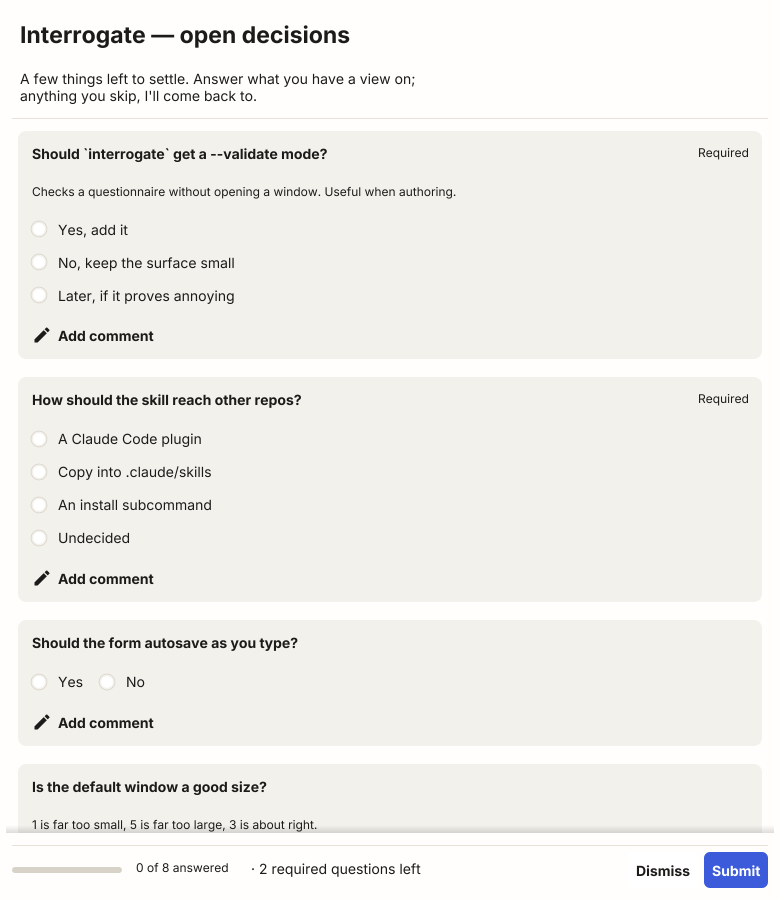
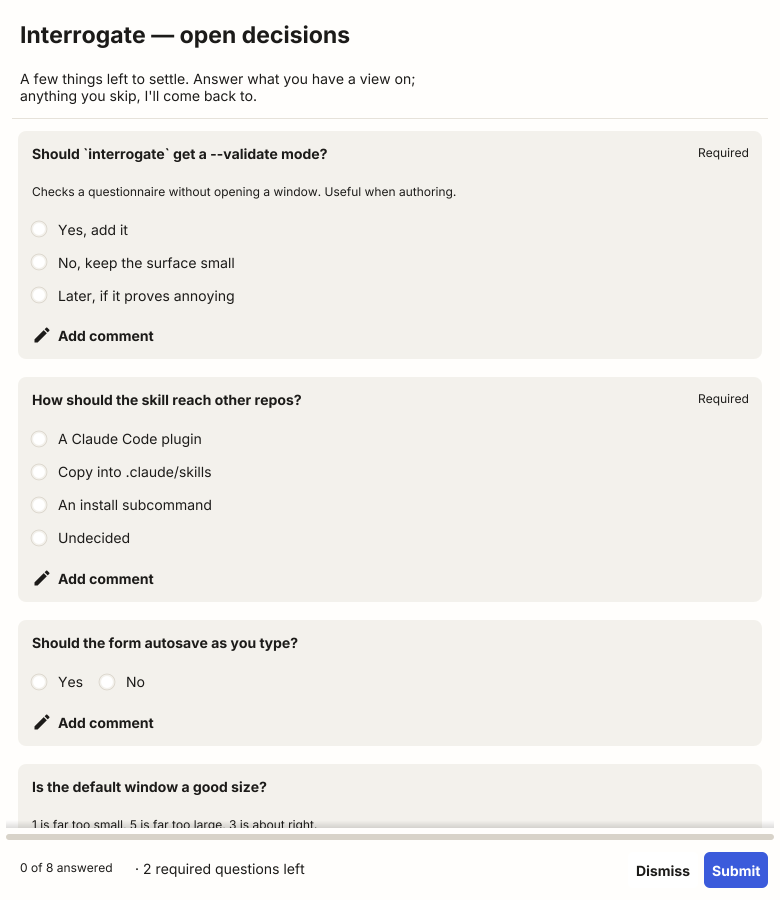
Widen the progress bar and stop text fields swallowing page scroll

Changed region(s): [[0.0, 0.9022, 1.0, 0.9956]]

diff --git a/internal/ui/polish_test.go b/internal/ui/polish_test.go
@@ -56,7 +56,7 @@ func TestCommentStartsCollapsed(t *testing.T) {
 	if c.Expanded() {
 		t.Error("a comment field should rest collapsed")
 	}
-	if c.Entry().Visible() {
+	if c.FieldVisible() {
 		t.Error("the entry should be hidden while collapsed")
 	}
 	if got := c.toggle.Text; got != "Add comment" {
@@ -69,7 +69,7 @@ func TestCommentOpensOnDemand(t *testing.T) {
 	c := f.cards["name"].comment
 
 	c.Toggle()
-	if !c.Expanded() || !c.Entry().Visible() {
+	if !c.Expanded() || !c.FieldVisible() {
 		t.Error("pressing the toggle should open the field")
 	}
 	if got := c.toggle.Text; got != "Hide comment" {
@@ -77,7 +77,7 @@ func TestCommentOpensOnDemand(t *testing.T) {
 	}
 
 	c.Toggle()
-	if c.Expanded() || c.Entry().Visible() {
+	if c.Expanded() || c.FieldVisible() {
 		t.Error("pressing it again should close the field")
 	}
 }
@@ -303,4 +303,82 @@ func TestProgressBarClampsOutOfRange(t *testing.T) {
 	if got := p.Value(); got != 1 {
 		t.Errorf("Value = %v after setting 5, want 1", got)
 	}
+}
+
+// --- Scrolling over a text field ----------------------------------------
+
+func TestScrollOverATextFieldMovesThePage(t *testing.T) {
+	// Fyne's Entry has an internal scroller that consumes scroll events even
+	// with nothing to scroll, and events do not bubble. Without the shield, a
+	// trackpad scroll stops dead when it crosses a comment box.
+	f, _ := build(t, uiDoc)
+	f.scroll.Resize(fyne.NewSize(600, 400))
+	f.list.Resize(fyne.NewSize(600, 2000))
+	f.scroll.Content.Resize(fyne.NewSize(600, 2000))
+
+	shield := findShield(t, f, "why")
+	before := f.scroll.Offset.Y
+	shield.Scrolled(&fyne.ScrollEvent{Scrolled: fyne.NewDelta(0, -40)})
+
+	if f.scroll.Offset.Y == before {
+		t.Error("scrolling over a text field did not move the page")
+	}
+}
+
+func TestScrollOverATextFieldStopsAtTheEnds(t *testing.T) {
+	f, _ := build(t, uiDoc)
+	f.scroll.Resize(fyne.NewSize(600, 400))
+	f.scroll.Content.Resize(fyne.NewSize(600, 2000))
+	shield := findShield(t, f, "why")
+
+	// Scrolling up at the top must not run past the start of the page.
+	shield.Scrolled(&fyne.ScrollEvent{Scrolled: fyne.NewDelta(0, 500)})
+	if got := f.scroll.Offset.Y; got != 0 {
+		t.Errorf("offset = %v after scrolling up at the top, want 0", got)
+	}
+
+	// Nor past the end.
+	shield.Scrolled(&fyne.ScrollEvent{Scrolled: fyne.NewDelta(0, -99999)})
+	if got := f.scroll.Offset.Y; got > 1600 {
+		t.Errorf("offset = %v, want it capped at the end of the page", got)
+	}
+}
+
+func TestScrollOverATextFieldIgnoresSideways(t *testing.T) {
+	f, _ := build(t, uiDoc)
+	f.scroll.Resize(fyne.NewSize(600, 400))
+	f.scroll.Content.Resize(fyne.NewSize(600, 2000))
+	findShield(t, f, "why").Scrolled(&fyne.ScrollEvent{Scrolled: fyne.NewDelta(120, 0)})
+	if got := f.scroll.Offset.X; got != 0 {
+		t.Errorf("offset.X = %v, want the page never to scroll sideways", got)
+	}
+}
+
+func TestEveryMultiLineFieldIsShielded(t *testing.T) {
+	f, doc := build(t, uiDoc)
+	for _, q := range doc.Questions {
+		c := f.cards[q.ID]
+		// Every comment field is multi-line, whatever the question's type.
+		if _, ok := search[*scrollShield](c.comment.shielded(), first[*scrollShield]()); !ok {
+			t.Errorf("the comment field for %q is not shielded", q.ID)
+		}
+		if q.Type == questionnaire.TypeTextarea {
+			if _, ok := search[*scrollShield](c.root, first[*scrollShield]()); !ok {
+				t.Errorf("the textarea for %q is not shielded", q.ID)
+			}
+		}
+	}
+}
+
+func findShield(t *testing.T, f *form, id string) *scrollShield {
+	t.Helper()
+	c, ok := f.cards[id]
+	if !ok {
+		t.Fatalf("no card for %q", id)
+	}
+	found, ok := search[*scrollShield](c.root, first[*scrollShield]())
+	if !ok {
+		t.Fatalf("no scroll shield in the card for %q", id)
+	}
+	return found
 }

diff --git a/internal/ui/form.go b/internal/ui/form.go
@@ -143,15 +143,15 @@ func (f *form) footer() fyne.CanvasObject {
 	submit.Importance = widget.HighImportance
 	dismiss := widget.NewButton("Dismiss", f.requestClose)
 
-	// The bar needs a width to be worth reading, so it takes the space the
-	// actions leave rather than shrinking to its content like an HBox item.
-	bar := container.NewCenter(container.NewGridWrap(f.progress.MinSize(), f.progress))
-	status := container.NewHBox(bar, f.counted, f.summary)
+	status := container.NewHBox(f.counted, f.summary)
 	actions := container.NewHBox(dismiss, submit)
-	return container.NewPadded(container.NewVBox(
-		widget.NewSeparator(),
-		container.NewBorder(nil, nil, status, actions),
-	))
+
+	// The bar spans the window along the top edge of the footer, where it also
+	// does the job the separator was doing.
+	return container.NewVBox(
+		f.progress,
+		container.NewPadded(container.NewBorder(nil, nil, status, actions)),
+	)
 }
 
 // buildCard lays out one question. Every question gets a comment box, whatever
@@ -182,7 +182,7 @@ func (f *form) buildCard(q *questionnaire.Question) *card {
 
 	parts = append(parts, f.control(q, c))
 
-	c.comment = newCommentField(q.Comment, func(s string) { q.Comment = s })
+	c.comment = newCommentField(q.Comment, func(s string) { q.Comment = s }, f.scrollable)
 	parts = append(parts, c.comment.root)
 
 	c.warning = widget.NewLabel("")
@@ -267,7 +267,41 @@ func (f *form) textareaControl(q *questionnaire.Question) fyne.CanvasObject {
 		entry.SetText(current)
 	}
 	entry.OnChanged = func(s string) { f.set(q, s) }
-	return entry
+	return f.scrollable(entry)
+}
+
+// scrollable shields a multi-line field so that scrolling the page over it
+// keeps working. See scrollThrough for why this is needed.
+func (f *form) scrollable(field fyne.CanvasObject) fyne.CanvasObject {
+	return newScrollThrough(field, f.scrollPage)
+}
+
+// scrollPage moves the questionnaire under the responder, matching what the
+// page scroller would have done with the event itself.
+func (f *form) scrollPage(e *fyne.ScrollEvent) {
+	if f.scroll == nil {
+		return
+	}
+	offset := f.scroll.Offset
+	offset.Y -= e.Scrolled.DY
+	offset.X -= e.Scrolled.DX
+
+	limit := f.scroll.Content.Size().Height - f.scroll.Size().Height
+	if limit < 0 {
+		limit = 0
+	}
+	if offset.Y < 0 {
+		offset.Y = 0
+	}
+	if offset.Y > limit {
+		offset.Y = limit
+	}
+	if offset.X != 0 {
+		offset.X = 0 // the page never scrolls sideways
+	}
+
+	f.scroll.Offset = offset
+	f.scroll.Refresh()
 }
 
 // numberControl accepts free text but only records a value the question's

diff --git a/internal/ui/widget_scrollthrough.go b/internal/ui/widget_scrollthrough.go
@@ -1,0 +1,72 @@
+package ui
+
+import (
+	"fyne.io/fyne/v2"
+	"fyne.io/fyne/v2/container"
+	"fyne.io/fyne/v2/widget"
+)
+
+// scrollThrough makes a text field stop swallowing the page's scrolling.
+//
+// Fyne gives every wrapping multi-line Entry an internal scroller, and
+// Scroll.Scrolled consumes the event whether or not it had anywhere to scroll.
+// Events do not bubble, and the driver dispatches to the deepest object under
+// the cursor implementing the interface -- so a trackpad scroll that crosses a
+// comment box simply stops until the pointer leaves it.
+//
+// The fix is to be deeper still: a transparent layer over the field that
+// implements Scrollable and forwards to the page. Every other kind of event is
+// matched by its own interface, which this layer does not implement, so taps,
+// hovering, text selection and focus all reach the field as before.
+type scrollThrough struct {
+	widget.BaseWidget
+
+	field  fyne.CanvasObject
+	onto   func(*fyne.ScrollEvent)
+	shield *scrollShield
+}
+
+func newScrollThrough(field fyne.CanvasObject, onto func(*fyne.ScrollEvent)) *scrollThrough {
+	s := &scrollThrough{field: field, onto: onto, shield: newScrollShield(onto)}
+	s.ExtendBaseWidget(s)
+	return s
+}
+
+func (s *scrollThrough) CreateRenderer() fyne.WidgetRenderer {
+	// The shield is stacked last, so it is the deepest match under the cursor.
+	return widget.NewSimpleRenderer(container.NewStack(s.field, s.shield))
+}
+
+// Objects exposes both layers, so the object tree stays walkable without
+// building a renderer first.
+func (s *scrollThrough) Objects() []fyne.CanvasObject {
+	return []fyne.CanvasObject{s.field, s.shield}
+}
+
+// Content is the field being shielded.
+func (s *scrollThrough) Content() fyne.CanvasObject { return s.field }
+
+// scrollShield is the transparent layer itself. It draws nothing and answers
+// only to scrolling.
+type scrollShield struct {
+	widget.BaseWidget
+
+	onto func(*fyne.ScrollEvent)
+}
+
+func newScrollShield(onto func(*fyne.ScrollEvent)) *scrollShield {
+	s := &scrollShield{onto: onto}
+	s.ExtendBaseWidget(s)
+	return s
+}
+
+func (s *scrollShield) CreateRenderer() fyne.WidgetRenderer {
+	return widget.NewSimpleRenderer(container.NewWithoutLayout())
+}
+
+// Scrolled forwards the event to whatever the shield was pointed at.
+func (s *scrollShield) Scrolled(e *fyne.ScrollEvent) {
+	if s.onto != nil {
+		s.onto(e)
+	}
+}

diff --git a/internal/ui/widget_comment.go b/internal/ui/widget_comment.go
@@ -24,13 +24,30 @@ type commentField struct {
 	toggle   *widget.Button
 	root     *fyne.Container
 	expanded bool
+
+	// shield keeps the page scrolling while the pointer is over the field.
+	shield func(fyne.CanvasObject) fyne.CanvasObject
+	// wrapped is what actually goes in the layout: the entry, shielded.
+	wrapped fyne.CanvasObject
+}
+
+// shielded returns the entry wrapped so it does not swallow page scrolling.
+func (c *commentField) shielded() fyne.CanvasObject {
+	if c.wrapped != nil {
+		return c.wrapped
+	}
+	c.wrapped = c.entry
+	if c.shield != nil {
+		c.wrapped = c.shield(c.entry)
+	}
+	return c.wrapped
 }
 
 // previewLimit is how much of a comment the collapsed toggle shows.
 const previewLimit = 44
 
-func newCommentField(current string, onChange func(string)) *commentField {
-	c := &commentField{}
+func newCommentField(current string, onChange func(string), shield func(fyne.CanvasObject) fyne.CanvasObject) *commentField {
+	c := &commentField{shield: shield}
 
 	c.entry = widget.NewMultiLineEntry()
 	c.entry.SetPlaceHolder("Anything worth saying about this answer")
@@ -51,7 +68,7 @@ func newCommentField(current string, onChange func(string)) *commentField {
 	// A question that arrives with a comment opens showing it: the responder
 	// wrote it last time and should not have to hunt for it.
 	c.expanded = strings.TrimSpace(current) != ""
-	c.root = container.NewVBox(c.toggle, c.entry)
+	c.root = container.NewVBox(c.toggle, c.shielded())
 	c.apply()
 
 	return c
@@ -72,11 +89,16 @@ func (c *commentField) Expanded() bool { return c.expanded }
 // Entry exposes the text field, for tests and for focus handling.
 func (c *commentField) Entry() *widget.Entry { return c.entry }
 
+// FieldVisible reports whether the text field is on screen. The entry is
+// wrapped in a scroll shield, and it is the wrapper that gets hidden, so asking
+// the entry itself would always say yes.
+func (c *commentField) FieldVisible() bool { return c.shielded().Visible() }
+
 func (c *commentField) apply() {
 	if c.expanded {
-		c.entry.Show()
+		c.shielded().Show()
 	} else {
-		c.entry.Hide()
+		c.shielded().Hide()
 	}
 	c.relabel()
 	c.root.Refresh()

diff --git a/openspec/changes/polish-questionnaire-form/proposal.md b/openspec/changes/polish-questionnaire-form/proposal.md
@@ -6,7 +6,8 @@ The first questionnaire answered with `interrogate` was also a review of it. The
 
 - **The header scrolls with the page.** Title and intro are read once, at the start; pinning them costs a fifth of the window for the rest of the session. The footer stays pinned, because the actions are needed from anywhere.
 - **Comment boxes collapse.** Each question shows a quiet affordance instead of an open field; the field appears when the responder wants it, and a question that already carries a comment opens with it visible. Every question still accepts a comment — the capability is unchanged, only its resting state.
-- **A progress bar.** The responder can see how far through the questionnaire they are at a glance, without reading a count or judging it by the scrollbar.
+- **A progress bar** across the top edge of the footer. The responder can see how far through the questionnaire they are at a glance, without reading a count or judging it by the scrollbar.
+- **Scrolling no longer stops over a text field.** Fyne gives every wrapping multi-line entry an internal scroller that consumes scroll events whether or not it has anywhere to scroll, and events do not bubble, so a trackpad scroll dies the moment the pointer crosses a comment box.
 - **Each question sits on its own card.** A hairline separator turned out not to be enough to tell one question from the next when scrolling. Every question gets a panel in a single colour that contrasts with a lightened page, separated by a margin — one shade, not a cycle of them, so the page reads as a stack of cards rather than a swatch book.
 - **`interrogate --validate <path>`** checks a questionnaire and exits without opening a window, reporting the same errors it would refuse to open on.
 

diff --git a/openspec/changes/polish-questionnaire-form/tasks.md b/openspec/changes/polish-questionnaire-form/tasks.md
@@ -45,9 +45,15 @@
 - [x] 6.1 Replace the counted readout with a progress bar over the applicable questions, and verify it reads empty on a fresh questionnaire and full when everything applicable is answered
 - [x] 6.2 Verify the bar advances as questions are answered and adjusts when a conditional question appears
 
-## 7. Delivery
+## 7. Scrolling over text fields
 
-- [x] 7.1 Refresh the rendered previews and verify the density improvement by screenshot review with the user
-- [x] 7.2 Update the README's form screenshot and document `--validate`, and verify the README's examples still pass their own tests
-- [x] 7.3 Note in the skill that a questionnaire can be checked with `--validate`, and verify the skill's tests still pass
-- [ ] 7.4 Run the full suite and one real interrogation, and verify formatting preservation still holds end to end
+- [x] 7.1 Shield every multi-line field so a scroll gesture over it moves the page, and verify a scroll over a textarea and over a comment box both scroll the questionnaire
+- [x] 7.2 Clamp the forwarded scroll to the ends of the page and ignore sideways movement, and verify neither runs past the content
+- [ ] 7.3 Verify by hand that clicking, selecting, and typing in a shielded field are unaffected
+
+## 8. Delivery
+
+- [x] 8.1 Refresh the rendered previews and verify the density improvement by screenshot review with the user
+- [x] 8.2 Update the README's form screenshot and document `--validate`, and verify the README's examples still pass their own tests
+- [x] 8.3 Note in the skill that a questionnaire can be checked with `--validate`, and verify the skill's tests still pass
+- [ ] 8.4 Run the full suite and one real interrogation, and verify formatting preservation still holds end to end

diff --git a/openspec/changes/polish-questionnaire-form/specs/interrogate-cli/spec.md b/openspec/changes/polish-questionnaire-form/specs/interrogate-cli/spec.md
@@ -115,3 +115,19 @@ The form SHALL show how far through the questionnaire the responder is as a prop
 #### Scenario: A questionnaire with everything answered
 - **WHEN** every applicable question carries an answer
 - **THEN** the indicator reads as complete
+
+### Requirement: Scrolling the page is never trapped by a field
+
+Scrolling the questionnaire SHALL continue to work wherever the pointer rests, including over a text field. A field that has nothing of its own to scroll SHALL NOT absorb the gesture.
+
+#### Scenario: Scrolling across a text field
+- **WHEN** the responder scrolls the page and the pointer passes over a multi-line text field
+- **THEN** the page keeps scrolling, without the responder having to move the pointer aside
+
+#### Scenario: Scrolling stops at the ends of the page
+- **WHEN** the responder scrolls up at the top of the questionnaire, or down at the bottom
+- **THEN** the page stops rather than running past its content
+
+#### Scenario: The field still behaves as a field
+- **WHEN** the responder clicks into, selects text in, or types into a shielded field
+- **THEN** it behaves exactly as it would without the shield
